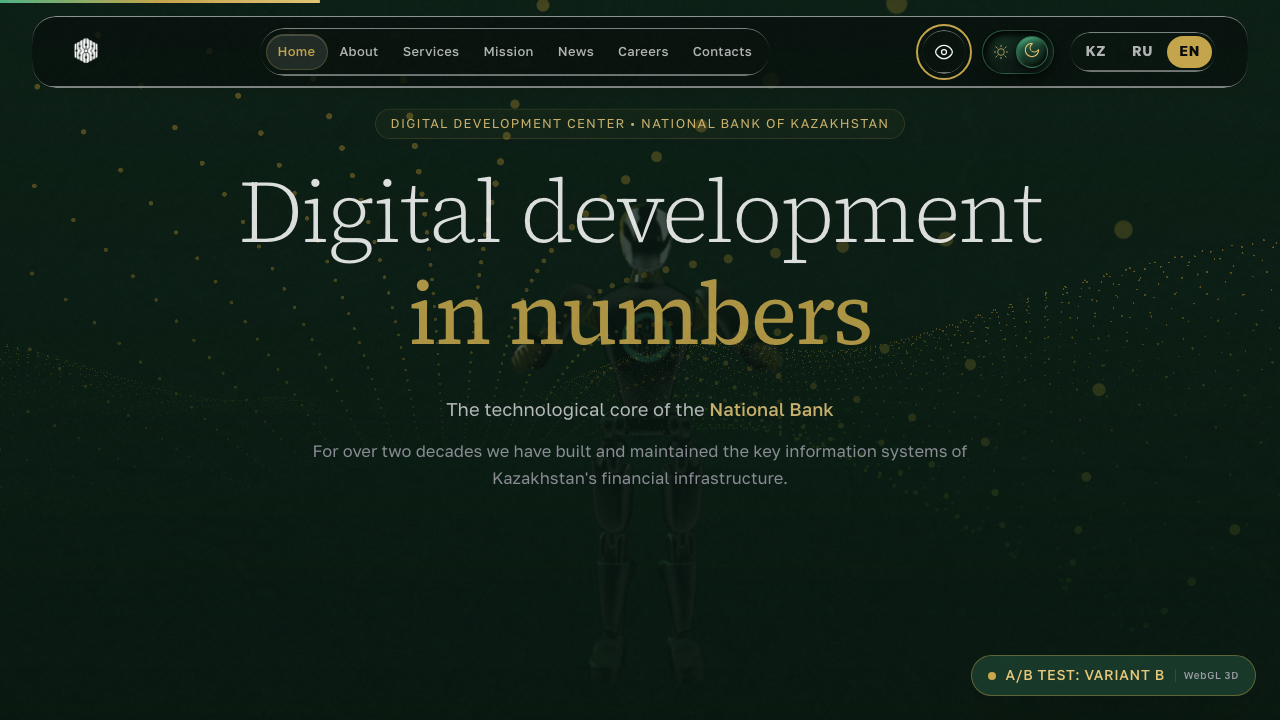
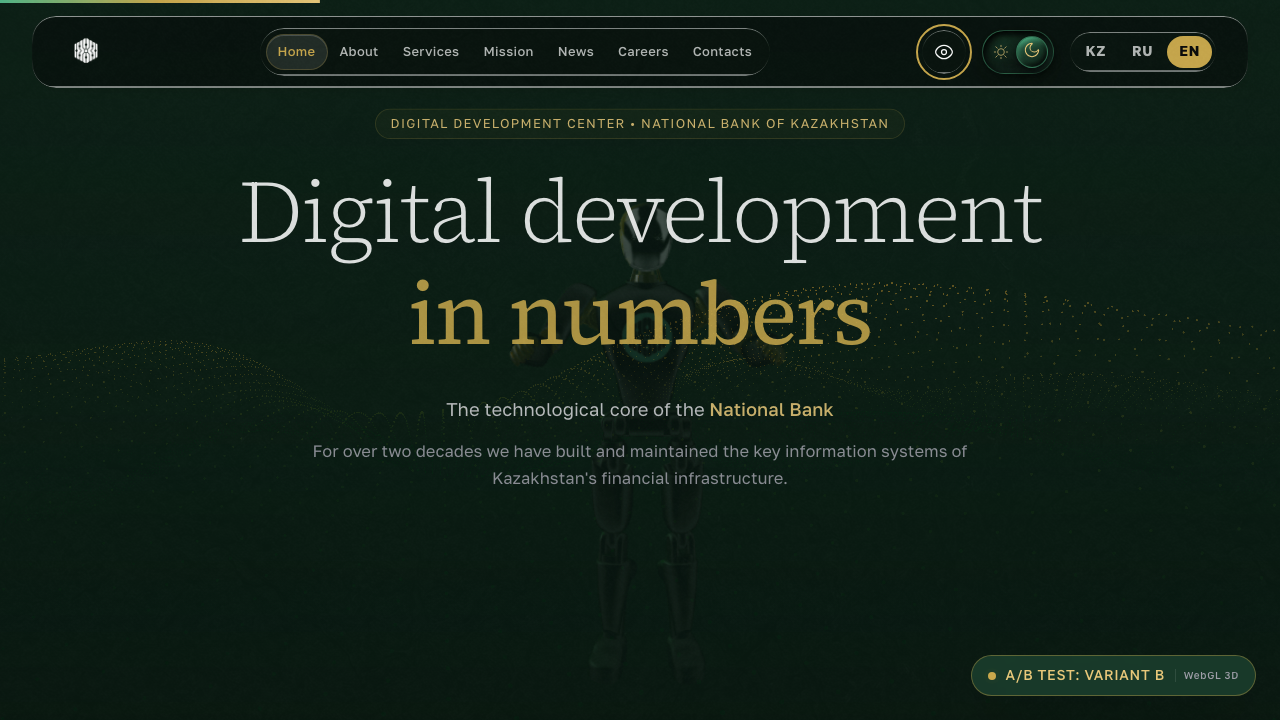
feat: implement shaders.com-inspired interactive dot grid cursor repulsion with spring CPU physics and brand glow

diff --git a/components/ui/ShadersDotCursorBackground.tsx b/components/ui/ShadersDotCursorBackground.tsx
@@ -6,6 +6,7 @@ import * as THREE from "three";
 import { useTheme } from "next-themes";
 import { useA11y } from "../theme/AccessibilityProvider";
 import { getScroll } from "@/lib/scrollStore";
+import { cn } from "@/lib/utils";
 
 /* --------------------------------------------------------------------------
    GLSL Shaders for the shaders.com dot cursor background effect
@@ -30,80 +31,78 @@ const fragmentShader = /* glsl */ `
   uniform float uScroll;
 
   // Shader configuration parameters
-  const float spacing = 28.0;      // Grid spacing in pixels
-  const float baseDotSize = 0.9;   // Idle dot size in pixels
-  const float maxDotSize = 7.0;    // Maximum dot size under wave influence
-  const float waveFreq = 2.4;      // Sine wave frequency
-  const float waveAmp = 0.18;      // Sine wave amplitude
-  const float waveAngle = 45.0;    // Angle of rotation of the wave line in degrees
-  const float waveSpeed = 3.5;     // Speed of wave propagation
-  const float waveThickness = 0.08; // Base width of the wave line
-  const float waveSoftness = 0.16;  // Blur/softness of wave boundaries
+  const float spacing = 28.0;          // Grid spacing in pixels
+  const float baseDotSize = 1.2;       // Idle dot size in pixels
+  const float maxDotSize = 6.0;        // Maximum dot size at the halo edge
+  const float repulsionRadius = 180.0; // Distance of influence in pixels
+  const float repulsionStrength = 38.0; // Maximum push distance in pixels
 
   void main() {
     vec2 pixelPos = gl_FragCoord.xy;
-    vec2 uv = vUv;
-    float aspect = uResolution.x / uResolution.y;
+    vec2 mousePixel = uMouse * uResolution;
 
-    // 1. Calculate relative coordinates mapped to aspect ratio
-    vec2 aspectMouse = vec2(uMouse.x * aspect, uMouse.y);
-    vec2 aspectUv = vec2(uv.x * aspect, uv.y);
-    vec2 offset = aspectUv - aspectMouse;
+    // 1. Subtle, slow background idle animation (breathing effect)
+    pixelPos.x += sin(pixelPos.y * 0.015 + uTime * 0.5) * 3.5;
+    pixelPos.y += cos(pixelPos.x * 0.015 + uTime * 0.4) * 3.5;
 
-    // 2. Rotate coordinate system according to waveAngle
-    float rad = radians(waveAngle);
-    float s = sin(rad);
-    float c = cos(rad);
-    float rotatedX = offset.x * c - offset.y * s;
-    float rotatedY = offset.x * s + offset.y * c;
+    // 2. Compute vector to mouse in screen space
+    vec2 toMouse = pixelPos - mousePixel;
+    float distToMouse = length(toMouse);
 
-    // 3. Compute sine wave deformation propagating in time
-    float wave = sin(rotatedX * waveFreq * 6.28318 - uTime * waveSpeed) * waveAmp;
+    // 3. Apply physics-based cursor grid repulsion
+    float factor = clamp((repulsionRadius - distToMouse) / repulsionRadius, 0.0, 1.0);
+    float falloff = smoothstep(0.0, 1.0, factor);
 
-    // Distance of the current pixel to the deformed sine wave
-    float distToWave = abs(rotatedY - wave);
+    if (distToMouse < repulsionRadius && distToMouse > 0.001) {
+      vec2 dir = normalize(toMouse);
+      // Shift coordinates towards mouse, pushing grid points away visually
+      pixelPos -= dir * falloff * repulsionStrength;
+    }
 
-    // Wave intensity/glow value (1.0 on the wave line, 0.0 far away)
-    float effect = 1.0 - smoothstep(waveThickness - waveSoftness * 0.5, waveThickness + waveSoftness * 0.5, distToWave);
+    // Recalculate distance using deformed coordinates for size and color mapping
+    vec2 deformedToMouse = pixelPos - mousePixel;
+    float deformedDist = length(deformedToMouse);
+    float deformedFactor = clamp((repulsionRadius - deformedDist) / repulsionRadius, 0.0, 1.0);
+    float deformedFalloff = smoothstep(0.0, 1.0, deformedFactor);
 
-    // Fade out wave effect with distance from the mouse to keep it localized
-    float distToMouse = length(offset);
-    float mouseFalloff = smoothstep(0.55, 0.08, distToMouse);
-    effect *= mouseFalloff;
+    // 4. Dot size modulation: empty well in the middle, gold halo on the border
+    float halo = smoothstep(0.0, 0.5, deformedFactor) * smoothstep(1.0, 0.5, deformedFactor) * 4.0;
+    float dotSize = baseDotSize * (1.0 - deformedFalloff * 0.9) + halo * maxDotSize * 0.45;
 
-    // 4. Compute procedural dot grid pattern
-    // Find the center of the nearest grid cell in pixel coordinates
+    // 5. Generate grid centers in the deformed coordinate space
     vec2 gridCenter = (floor(pixelPos / spacing) + 0.5) * spacing;
     vec2 distVec = pixelPos - gridCenter;
     float distToCenter = length(distVec);
 
-    // Scale dot size based on localized wave intensity
-    float dotSize = mix(baseDotSize, maxDotSize, effect);
-
-    // Smoothly render the circle
-    float antialias = 0.75;
+    // Render the smooth circle
+    float antialias = 0.85;
     float dotMask = smoothstep(dotSize * 0.5 + antialias, dotSize * 0.5 - antialias, distToCenter);
 
-    // Fade out background dots completely as scroll increases (gone by 0.25 scroll)
+    // Fade out completely as scroll increases (gone by 0.25 scroll)
     float scrollFade = 1.0 - smoothstep(0.0, 0.25, uScroll);
     dotMask *= scrollFade;
 
-    // 5. Adaptive theme color palettes
-    // Forest-dark theme base: deep teal/forest green (#0B1A12)
-    // Light theme base: soft off-white/beige (#F5F5F0)
-    vec3 bgColor = mix(vec3(11.0 / 255.0, 26.0 / 255.0, 18.0 / 255.0), vec3(245.0 / 255.0, 245.0 / 255.0, 240.0 / 255.0), uThemeLight);
+    // 6. Premium Theme Color Palette (Adapted to DDC Brand)
+    // Dark theme: deep forest onyx (#050a08)
+    // Light theme: soft off-white/beige (#f5f5f0)
+    vec3 bgColor = mix(vec3(5.0 / 255.0, 10.0 / 255.0, 8.0 / 255.0), vec3(245.0 / 255.0, 245.0 / 255.0, 240.0 / 255.0), uThemeLight);
 
-    // Forest-dark dots: emerald green (#23573A)
-    // Light theme dots: cool dark gray (#5D6B63)
-    vec3 baseDotColor = mix(vec3(35.0 / 255.0, 87.0 / 255.0, 58.0 / 255.0), vec3(93.0 / 255.0, 107.0 / 255.0, 99.0 / 255.0), uThemeLight);
+    // Soft ambient glow behind the grid following the cursor
+    float glow = exp(-distToMouse * 0.012) * 0.15 * scrollFade;
+    vec3 glowColor = mix(vec3(16.0 / 255.0, 185.0 / 255.0, 129.0 / 255.0), vec3(232.0 / 255.0, 200.0 / 255.0, 122.0 / 255.0), 0.5); // Emerald-Gold
+    bgColor = mix(bgColor, bgColor + glowColor, glow);
 
-    // Active glow dots: bright gold/wheat (#E8C87A)
+    // Idle dots: deep forest green (#163a28) or gray-green (#5d6b63)
+    vec3 baseDotColor = mix(vec3(22.0 / 255.0, 58.0 / 255.0, 40.0 / 255.0), vec3(93.0 / 255.0, 107.0 / 255.0, 99.0 / 255.0), uThemeLight);
+    
+    // Active dots: bright gold/wheat (#e8c87a)
     vec3 activeDotColor = vec3(232.0 / 255.0, 200.0 / 255.0, 122.0 / 255.0);
 
-    // Interpolate dot color between idle and active gold
-    vec3 dotColor = mix(baseDotColor, activeDotColor, effect);
+    // Interpolate dot color
+    float colorMix = clamp(deformedFalloff * 0.2 + halo * 1.6, 0.0, 1.0);
+    vec3 dotColor = mix(baseDotColor, activeDotColor, colorMix);
 
-    // Composite final color
+    // Final composition
     vec3 finalColor = mix(bgColor, dotColor, dotMask);
 
     gl_FragColor = vec4(finalColor, 1.0);
@@ -119,6 +118,7 @@ function ShaderMesh({ isLight }: { isLight: boolean }) {
   const { size, viewport } = useThree();
   const pointer = useRef({ x: 0.5, y: 0.5 });
   const smoothPointer = useRef({ x: 0.5, y: 0.5 });
+  const velocity = useRef({ x: 0, y: 0 });
 
   const uniforms = useMemo(
     () => ({
@@ -151,9 +151,20 @@ function ShaderMesh({ isLight }: { isLight: boolean }) {
     m.uniforms.uScroll.value = scroll;
     m.uniforms.uThemeLight.value = isLight ? 1.0 : 0.0;
 
-    // Smoothly interpolate cursor position (lerp)
-    smoothPointer.current.x += (pointer.current.x - smoothPointer.current.x) * Math.min(1.0, dt * 6.5);
-    smoothPointer.current.y += (pointer.current.y - smoothPointer.current.y) * Math.min(1.0, dt * 6.5);
+    // CPU-based Spring physics integration for organic inertia & bounce (overshoot)
+    const delta = Math.min(0.03, dt); // Cap dt to prevent spring explosions during tab switching
+    const stiffness = 160.0;
+    const damping = 15.0;
+
+    const ax = (pointer.current.x - smoothPointer.current.x) * stiffness - velocity.current.x * damping;
+    const ay = (pointer.current.y - smoothPointer.current.y) * stiffness - velocity.current.y * damping;
+
+    velocity.current.x += ax * delta;
+    velocity.current.y += ay * delta;
+
+    smoothPointer.current.x += velocity.current.x * delta;
+    smoothPointer.current.y += velocity.current.y * delta;
+
     m.uniforms.uMouse.value.set(smoothPointer.current.x, smoothPointer.current.y);
   });
 
